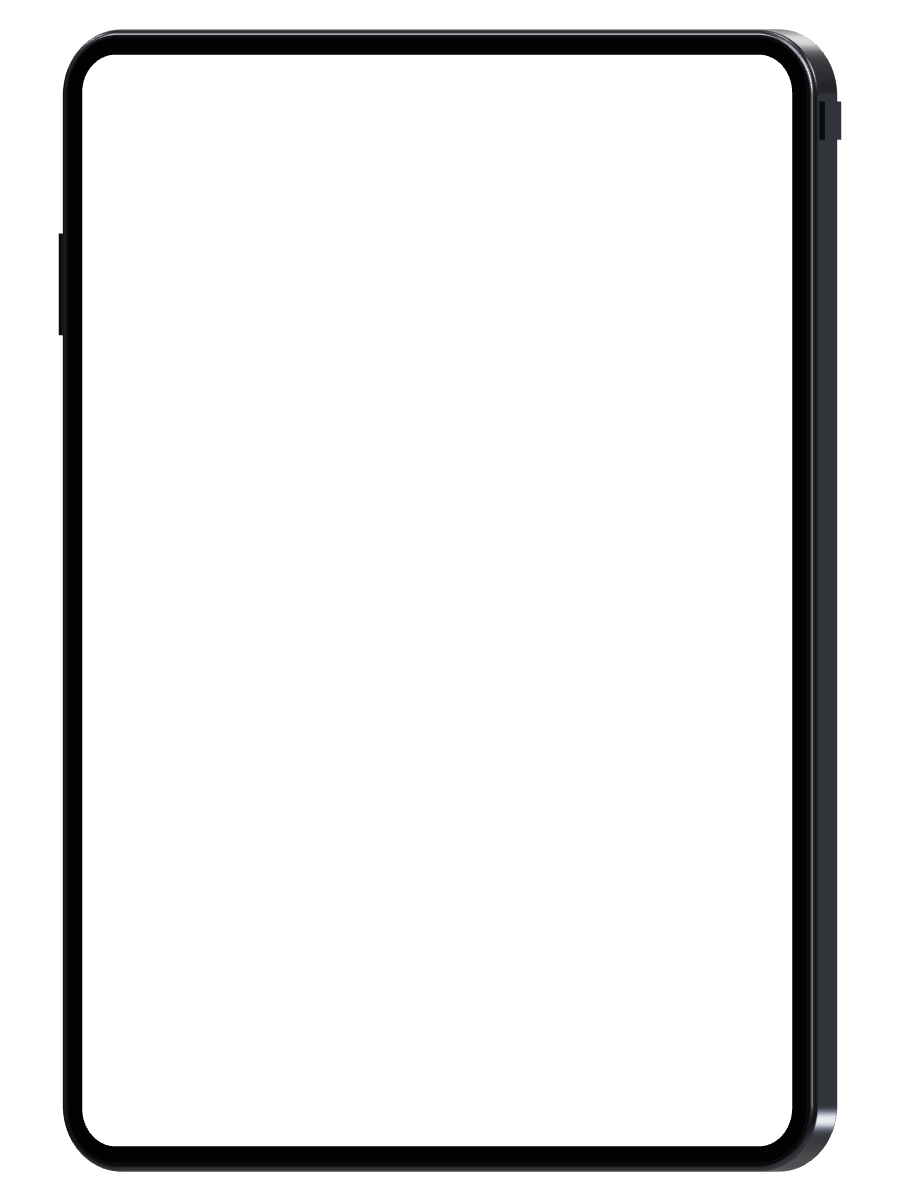
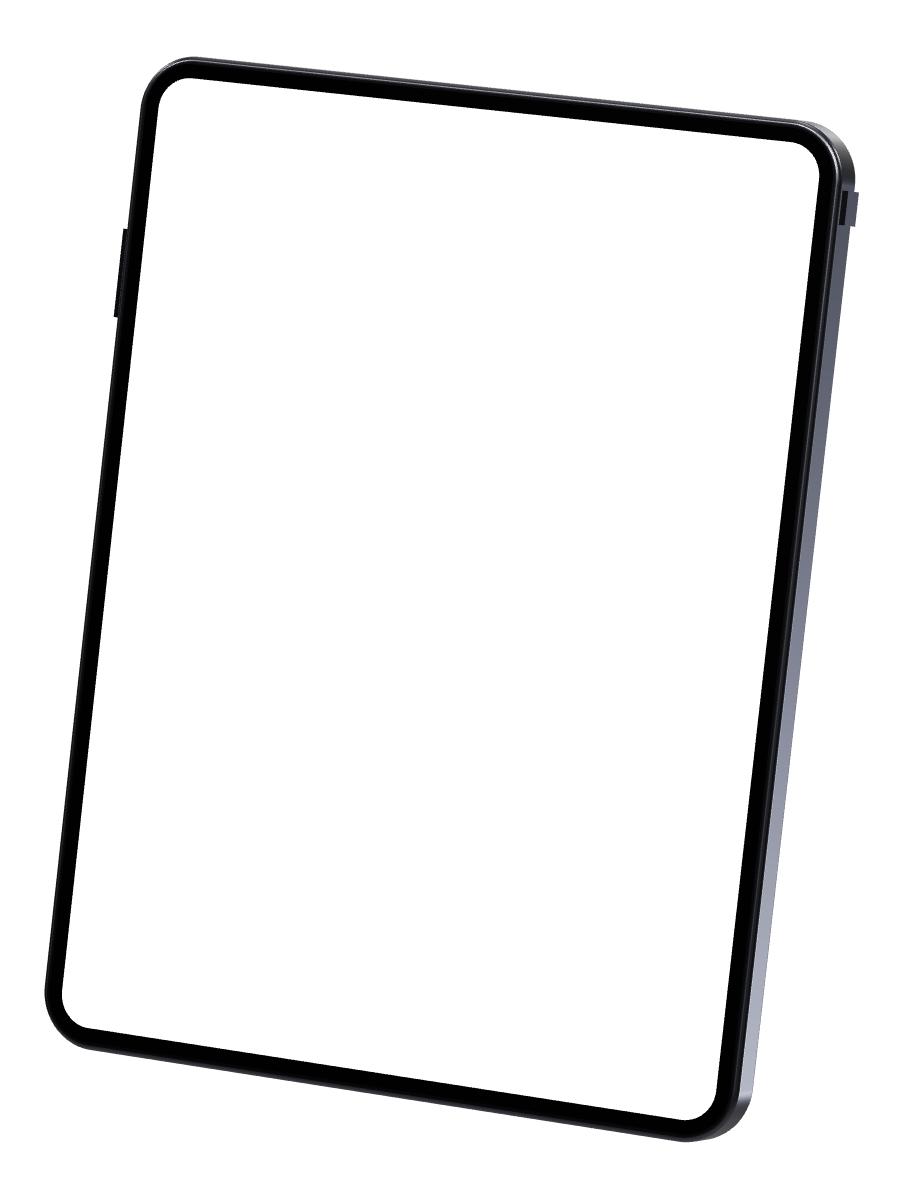
fix: 3D iPad uses the same tilted pose as the phone with softened perspective

Changed region(s): [[0.0311, 0.0, 0.9644, 0.9858]]

diff --git a/src/utils/screenshotInfo.ts b/src/utils/screenshotInfo.ts
@@ -63,7 +63,7 @@ function describePhone(p: PhoneObject) {
       const mirrored = p.deviceModel?.endsWith('-mirror') ?? false;
       const side = mirrored ? 'left' : 'right';
       const look = isTablet
-        ? `3D-rendered iPad turned about 30 degrees around its vertical axis, with NO perspective and NO roll: the top and bottom edges stay perfectly horizontal and parallel, the left and right edges stay vertical and parallel, and the screen is simply compressed horizontally (not sheared). A thin sliver of its ${side} edge is visible${mirrored ? ' (the mirror image of the default pose: turned the opposite way)' : ''}.`
+        ? `3D-rendered iPad turned about 25 degrees and leaning slightly clockwise (a gentle in-plane tilt), with only mild perspective — the left and right edges stay nearly parallel and the top and bottom edges are close to the same width — showing a thin sliver of its ${side} edge${mirrored ? ' (the mirror image of the default pose: turned and leaning the opposite way)' : ''}; the screen content is in matching perspective`
         : `3D-rendered iPhone turned about 25 degrees (slightly tilted in-plane, mild perspective — the left and right edges stay nearly parallel), showing only a thin sliver of its ${side} edge${mirrored ? ' (the mirror image of the default 3D pose: turned and leaning the opposite way)' : ''}; the screen content is in perspective`;
       return { look };
     })()),

diff --git a/src/phoneFrame.ts b/src/phoneFrame.ts
@@ -186,7 +186,7 @@ export const DEVICE_MODELS: DeviceModel[] = [
       frameUrl: ipad3dFrame,
       frameWidth: 900,
       frameHeight: 1201,
-      quad: [[0.09126, 0.0455], [0.88016, 0.0455], [0.88016, 0.9545], [0.09126, 0.9545]],
+      quad: [[0.18005, 0.06251], [0.91429, 0.12114], [0.79154, 0.93646], [0.065, 0.85222]],
       screenAspect: 1.3494,
     },
   },
@@ -204,7 +204,7 @@ export const DEVICE_MODELS: DeviceModel[] = [
       frameUrl: ipad3dMirrorFrame,
       frameWidth: 900,
       frameHeight: 1201,
-      quad: [[0.11984, 0.0455], [0.90874, 0.0455], [0.90874, 0.9545], [0.11984, 0.9545]],
+      quad: [[0.08571, 0.12114], [0.81995, 0.06251], [0.935, 0.85222], [0.20846, 0.93646]],
       screenAspect: 1.3494,
     },
   },
